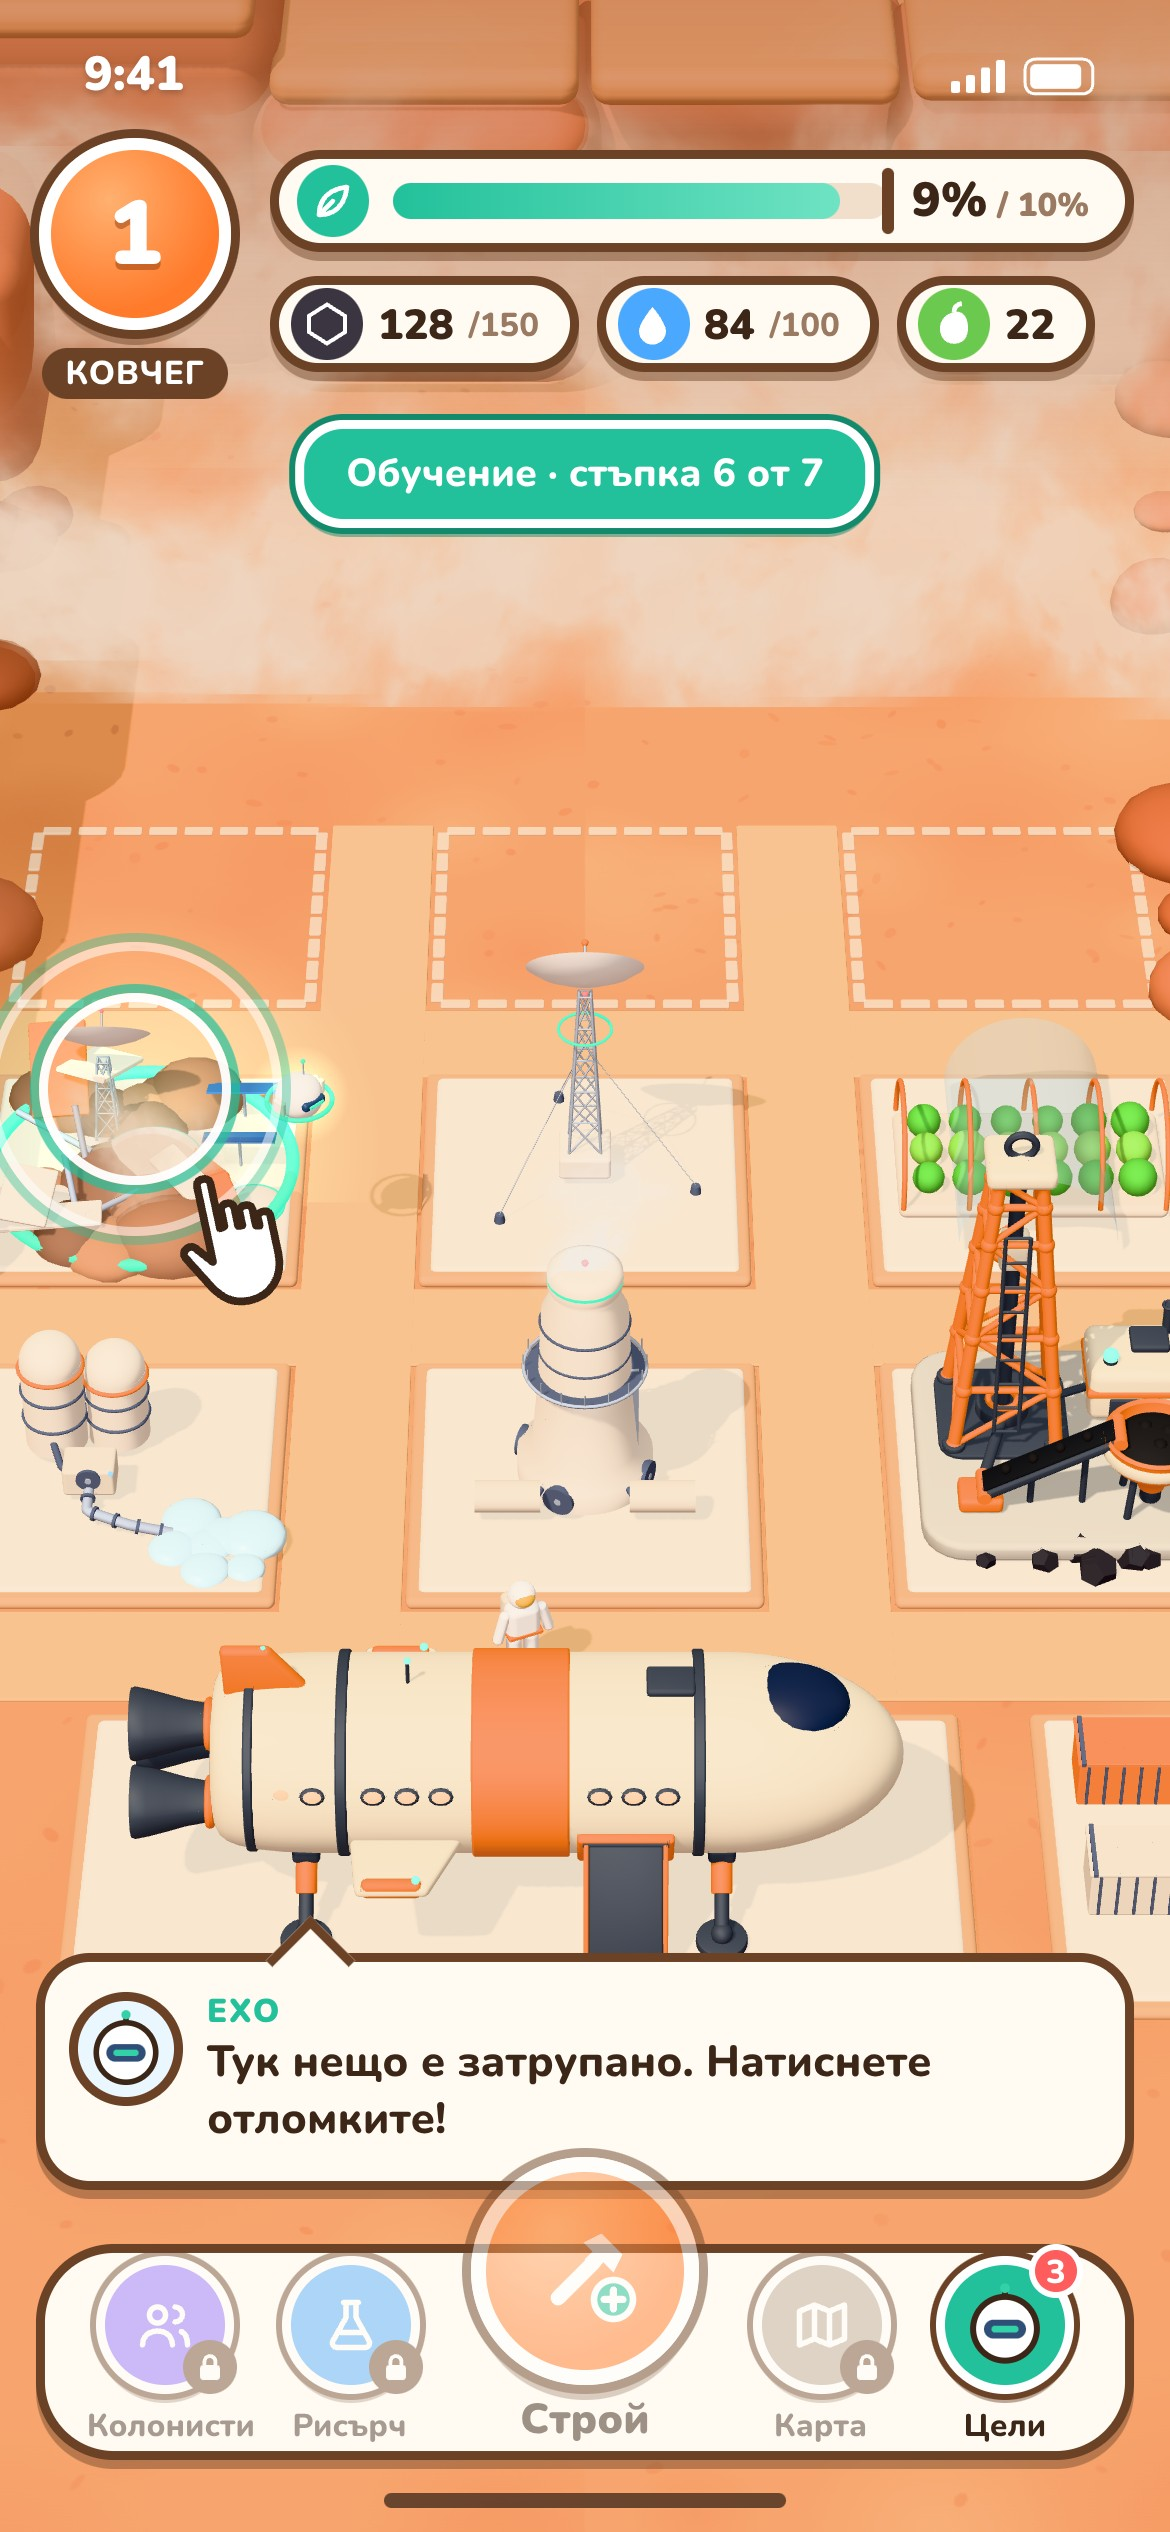
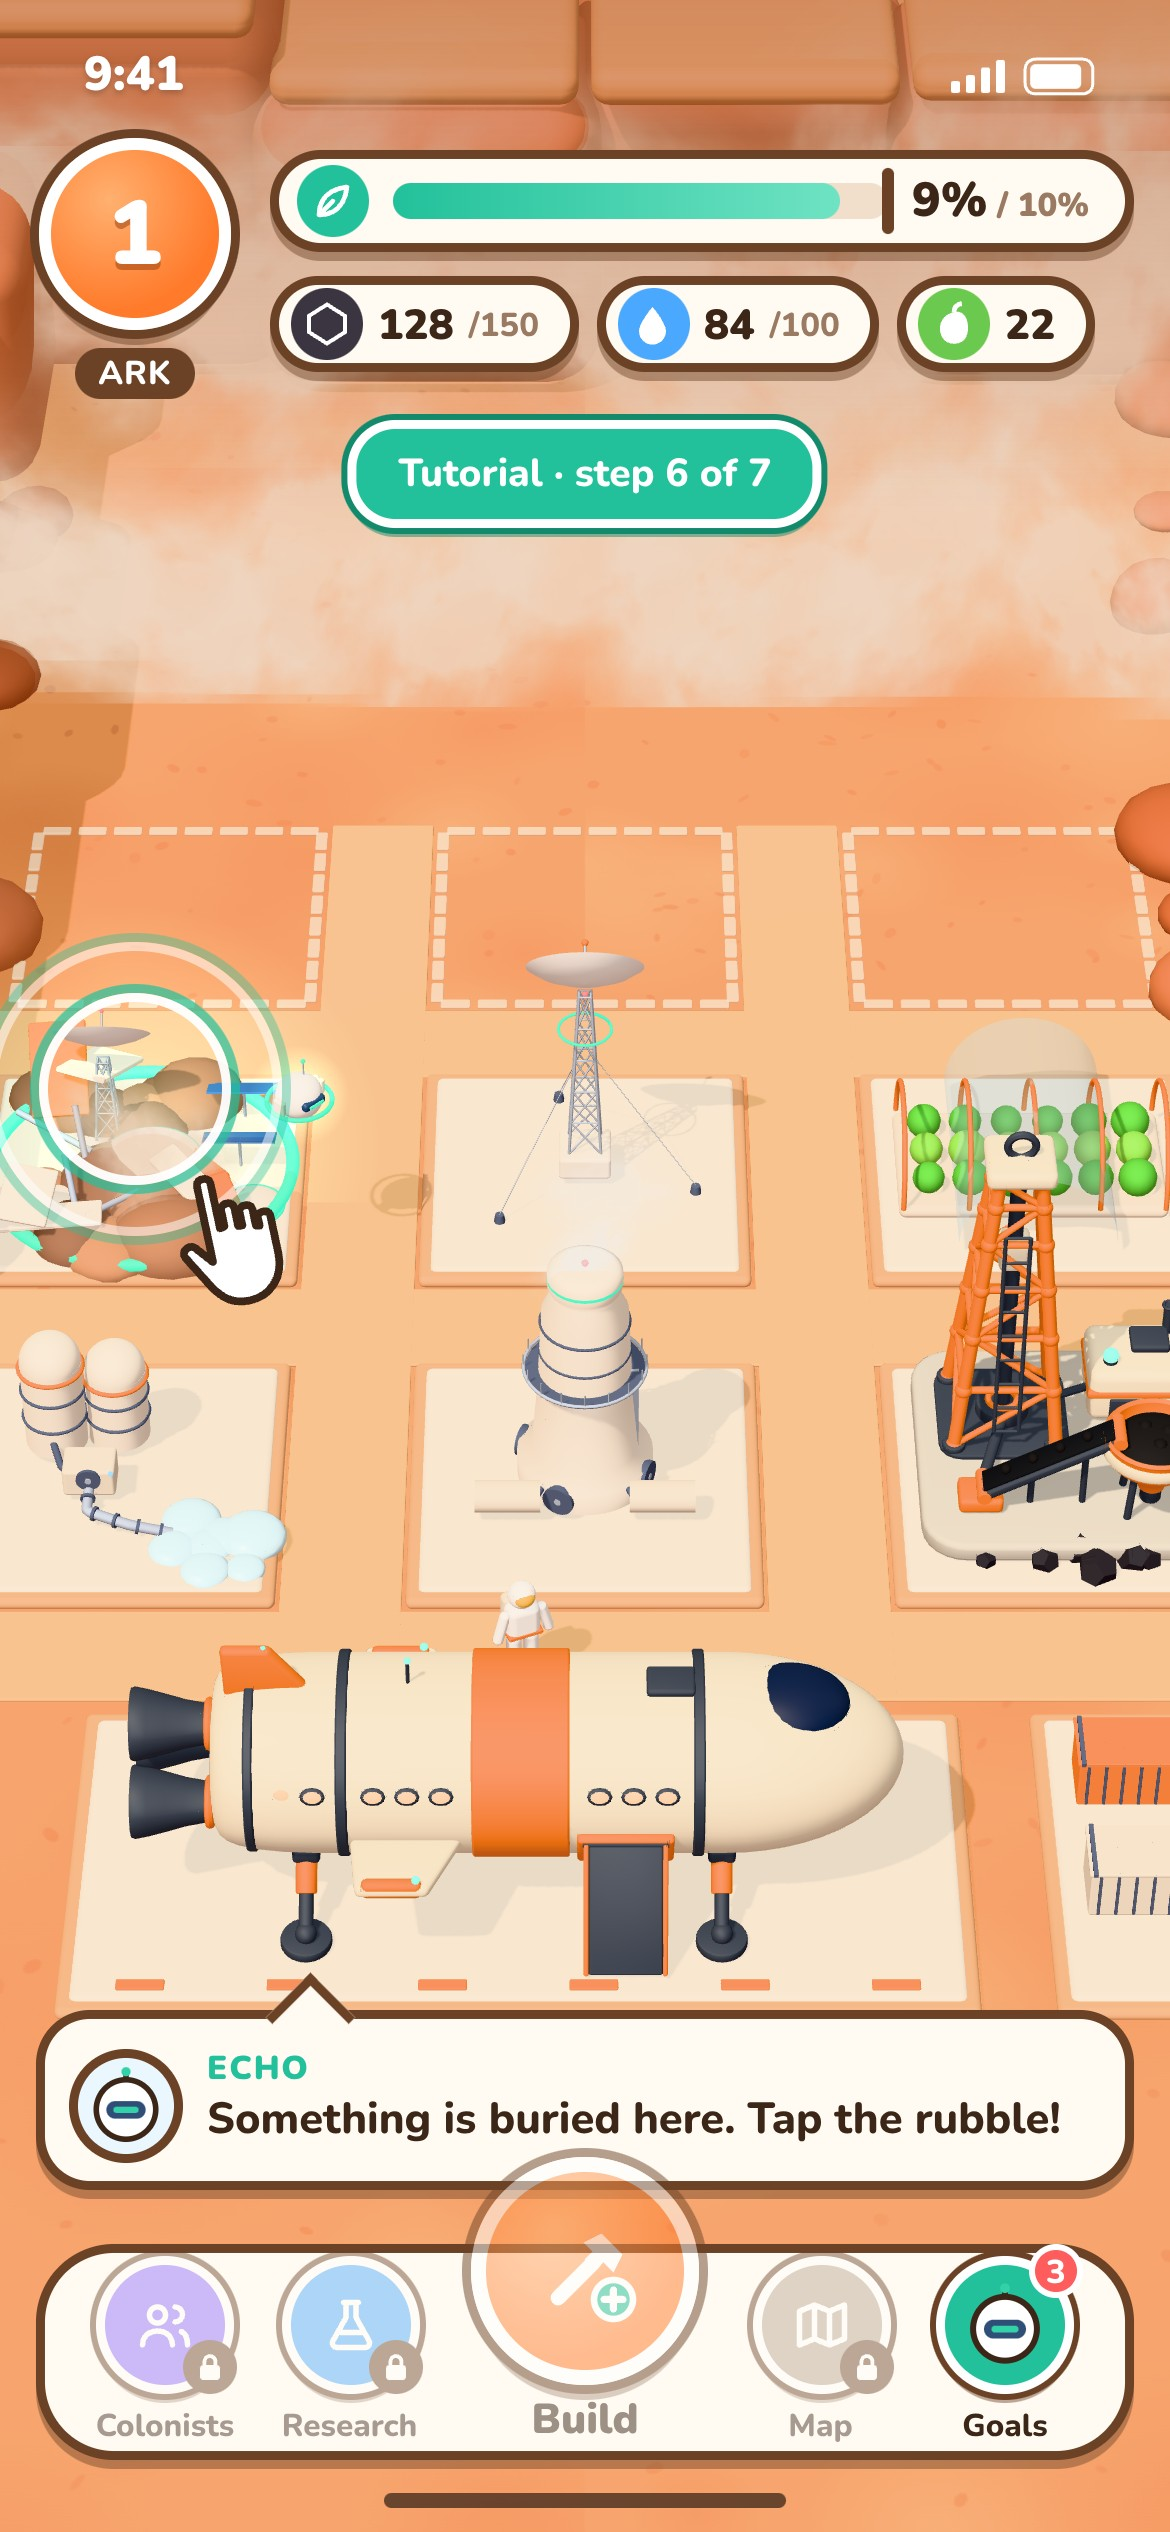
Новата визия с текстове на английски
Жоро: текстовете в самата игра са на английски. Преведени са всички
надписи в mockup/cartoon.html, кадрите са направени наново, решението е
в бележките и в CLAUDE.md.

Claude-Session: https://claude.ai/code/session_01HQgMkiyb5bvwSnLxV2QWWo

diff --git a/mockup/cartoon.html b/mockup/cartoon.html
@@ -1,5 +1,5 @@
 <!doctype html>
-<html lang="bg"><head><meta charset="utf-8"><meta name="viewport" content="width=390">
+<html lang="en"><head><meta charset="utf-8"><meta name="viewport" content="width=390">
 <title>Zerks-X6 cartoon mockup</title>
 <script type="importmap">{ "imports": { "three": "./node_modules/three/build/three.module.js", "three/addons/": "./node_modules/three/examples/jsm/" } }</script>
 <style>
@@ -90,15 +90,15 @@ const ICON = {
 };
 const pill = (bg, ico, val, small = '') => `<div class="pill card"><span class="ic" style="background:${bg}">${ico}</span>${val}${small ? `<small>${small}</small>` : ''}</div>`;
 function bubble(a, text) {
-  // ЕХО speaks from the bottom, above the dock; the tail points up at the robot on the map
-  return `<div class="bubble card" style="--tx:${Math.min(Math.max(a.x - 21, 30), 330).toFixed(1)}px"><div class="who">${ICON.echo}</div><div class="nm">ЕХО</div>${text}</div>`;
+  // ECHO speaks from the bottom, above the dock; the tail points up at the robot on the map
+  return `<div class="bubble card" style="--tx:${Math.min(Math.max(a.x - 21, 30), 330).toFixed(1)}px"><div class="who">${ICON.echo}</div><div class="nm">ECHO</div>${text}</div>`;
 }
 const badge = (a, inner, tag = '', cls = '') => `<div class="badge" style="left:${a.x.toFixed(1)}px;top:${a.y.toFixed(1)}px"><div class="b ${cls}">${inner}</div>${tag ? `<div class="tag">${tag}</div>` : ''}<div class="stem"></div></div>`;
 function hud() {
   const a = window.__anchors, l3 = window.__state.l3;
   let h = '<div class="shade"></div>';
   h += `<div class="status"><span>9:41</span><span class="r"><svg width="18" height="11" viewBox="0 0 18 11" fill="#fff"><rect x="0" y="7" width="3" height="4" rx=".8"/><rect x="5" y="5" width="3" height="6" rx=".8"/><rect x="10" y="2.5" width="3" height="8.5" rx=".8"/><rect x="15" y="0" width="3" height="11" rx=".8"/></svg><svg width="27" height="13" viewBox="0 0 27 13"><rect x=".7" y=".7" width="22.6" height="11.6" rx="3.4" fill="none" stroke="#fff"/><rect x="2.4" y="2.4" width="17" height="8.2" rx="1.8" fill="#fff"/></svg></span></div>`;
-  h += `<div class="ark"><div class="c">${l3 ? 3 : 1}</div><span class="t">КОВЧЕГ</span></div>`;
+  h += `<div class="ark"><div class="c">${l3 ? 3 : 1}</div><span class="t">ARK</span></div>`;
   const atm = l3 ? [13, 16] : [9, 10];
   h += `<div class="atm card"><span class="ic">${ICON.leaf}</span><div class="bar"><i style="width:${atm[0] / atm[1] * 100}%"></i><b style="right:-2px"></b></div><span class="v">${atm[0]}%<small> / ${atm[1]}%</small></span></div>`;
   h += `<div class="res">` + (l3
@@ -106,26 +106,26 @@ function hud() {
     : pill('#3a3540', ICON.carbon, 128, '/150') + pill('#4aa8ff', ICON.water, 84, '/100') + pill('#6cc94f', ICON.food, 22)) + `</div>`;
   if (l3) h += `<div class="crew">${pill('#8f6cff', ICON.person('#fff', 16), '4', '/4')}</div>`;
   if (!l3) {
-    h += `<div class="tut">Обучение · стъпка 6 от 7</div>`;
+    h += `<div class="tut">Tutorial · step 6 of 7</div>`;
     h += `<div class="pt" style="left:${a.rubble.x}px;top:${a.rubble.y}px"><div class="ring" style="width:64px;height:64px"></div><div class="ring" style="width:98px;height:98px;opacity:.55"></div></div>`;
     h += `<div class="pt" style="left:${a.rubble.x + 22}px;top:${a.rubble.y + 30}px;transform:translate(-30%,-10%) rotate(-12deg)">${ICON.hand}</div>`;
-    h += bubble(a.echo, 'Тук нещо е затрупано. Натиснете отломките!');
+    h += bubble(a.echo, 'Something is buried here. Tap the rubble!');
   } else {
     for (const k of ['w-drill', 'w-pump', 'w-veg']) h += badge(a[k], `${ICON.person()}<span class="ok">${ICON.check}</span>`);
     h += badge(a['w-quarry'], ICON.plus, '', 'empty');
-    h += badge(a['w-proc'], ICON.plus, 'свободно', 'empty');
-    h += badge(a.cook, ICON.chef, 'готвач');
-    h += badge(a.dome, ICON.bed, '4/4 легла');
-    h += bubble(a.echo, 'Всяка сграда може да вземе един човек. Натиснете празното място!');
+    h += badge(a['w-proc'], ICON.plus, 'free slot', 'empty');
+    h += badge(a.cook, ICON.chef, 'cook');
+    h += badge(a.dome, ICON.bed, '4/4 beds');
+    h += bubble(a.echo, 'Each building can take one worker. Tap the empty slot!');
     h += `<div class="pt" style="left:${a['w-proc'].x + 18}px;top:${a['w-proc'].y - 4}px;transform:translate(-30%,-10%) rotate(-12deg)">${ICON.hand}</div>`;
   }
   const off = l3 ? '' : 'off', lock = l3 ? '' : `<span class="lock">${ICON.lock}</span>`;
   h += `<div class="dock card">
-    <div class="db ${off}"><div class="c" style="background:#8f6cff">${ICON.people}</div><div class="l">Колонисти</div>${lock}${l3 ? '<span class="dot">!</span>' : ''}</div>
-    <div class="db ${off}"><div class="c" style="background:#4aa8ff">${ICON.flask}</div><div class="l">Рисърч</div>${lock}</div>
-    <div class="build ${off}"><div class="c">${ICON.hammer}</div><div class="l">Строй</div></div>
-    <div class="db off"><div class="c" style="background:#b9a38e">${ICON.map}</div><div class="l">Карта</div><span class="lock">${ICON.lock}</span></div>
-    <div class="db"><div class="c" style="background:#22c19b">${ICON.echo.replace('width="28" height="28"', 'width="30" height="30"')}</div><div class="l">Цели</div><span class="dot">3</span></div>
+    <div class="db ${off}"><div class="c" style="background:#8f6cff">${ICON.people}</div><div class="l">Colonists</div>${lock}${l3 ? '<span class="dot">!</span>' : ''}</div>
+    <div class="db ${off}"><div class="c" style="background:#4aa8ff">${ICON.flask}</div><div class="l">Research</div>${lock}</div>
+    <div class="build ${off}"><div class="c">${ICON.hammer}</div><div class="l">Build</div></div>
+    <div class="db off"><div class="c" style="background:#b9a38e">${ICON.map}</div><div class="l">Map</div><span class="lock">${ICON.lock}</span></div>
+    <div class="db"><div class="c" style="background:#22c19b">${ICON.echo.replace('width="28" height="28"', 'width="30" height="30"')}</div><div class="l">Goals</div><span class="dot">3</span></div>
   </div><div class="home"></div>`;
   document.getElementById('hud').innerHTML = h;
   document.fonts.ready.then(() => { window.__ready = true; });

diff --git a/docs/notes.md b/docs/notes.md
@@ -69,7 +69,7 @@
 | --- | --- | --- |
 | Име на играта | Още не знаем; Zerks-X6 остава работно име | Отворен |
 | С какво правим приложението | Приложение за iOS и Android е решено. С какво: предложение Unity или three.js в приложение (Capacitor), за да ползваме опита от Starhop | Отворен |
-| Език на играта | Предложение: английски; досега беше заради CrazyGames | Отворен |
+| Език на играта | Английски: текстовете в самата игра са на английски (Жоро, 03.11.2026); досега беше предложение | Решен |
 | Картата | Старото предложение отпадна. В концепцията (предложение): каньон, който се отключва нагоре по зони; заключените зони са под прах | Отворен |
 | Жанр и дължина | Idle игра за оцеляване с дълъг път на прогреса: строиш, подобряваш и колонията работи сама, и докато те няма. Историята остава нашата (решено на 01.11.2026) | Решен |
 | Екран, камера и управление | Вертикален екран (портрет). Камерата е само отгоре от първата секунда; няма джойстик и героят не се управлява. Всичко става с натискане (решено на 01.11.2026) | Решен |
@@ -112,6 +112,7 @@
 
 | Дата | Промяна | Статус |
 | --- | --- | --- |
+| 03.11.2026 | Жоро: текстовете в играта са на английски. В новата визия (mockup/cartoon.html) всички надписи са преведени: ARK, ECHO, Build, Colonists, Research, Map, Goals, репликите на ECHO и значките; кадрите cartoon-01 и cartoon-02 са направени наново | Готово |
 | 03.11.2026 | Жоро: нова визия, по-приятелска и анимационна, със същите модели. Нов макет mockup/cartoon.html (src/cartoon.js): плоски ярки цветове, мека светлина, нов каньон и нов интерфейс; Ковчегът и сондата от CellCog, другите сгради от кода с анимационни цветове. Кадри за ниво 1 (обучение, отломките) и ниво 3 (купол, кухня, работници) в mockup/screens | Готово |
 | 02.11.2026 | Жоро уточни строежа: бутонът „Строй“ отваря менюто, всяка сграда има определено място на картата, ЕХО води дотам. Обновени документът „Zerks-X6: ход на играта по концепцията“ (схемата, таблиците, отворените въпроси) и docs/game-flow-concept.md. В макета: състояния #early-build (менюто) и #early-place (светещото място с ЕХО), кадри 06 и 07; фабрикаторът в парцела му е заменен с рисърч станция и кадри 01–03 са направени наново | Готово |
 | 02.11.2026 | Жоро: фабрикаторът отпада; строи се с тап върху парцел и меню за строеж (уточнено в реда по-горе). Нов документ „Zerks-X6: ход на играта по концепцията“ (https://claude.ai/artifact/JjShfraRTRq3CH4FX62HVv) с нещата и действията от концепцията, две схеми и кадър на менюто за строеж; копие в docs/game-flow-concept.md. В макета ново състояние #early-build, кадър mockup/screens/06-stroezh-menu.jpg. Стъпка 1.3 „Фабрикаторът“ в „Zerks-X6: ход на играта“ и концепцията още не са обновени | Готово |

diff --git a/mockup/README.md b/mockup/README.md
@@ -13,7 +13,7 @@
 | `05-atmosfera-90-otblizo.jpg` | Същото, приближено |
 | `06-stroezh-menu.jpg` | Ниво 10: натиснат бутонът „Строй“, отворено е менюто за строеж; фабрикатор няма (решено на 02.11.2026) |
 | `07-izbor-na-miasto.jpg` | Избран е Жилищен модул: мястото му свети с прозрачната сграда, ЕХО го посочва, долу „Строй тук“ |
-| `cartoon-01-nivo-1.jpg` | Новата приятелска визия (cartoon.html): ниво 1, обучение; ЕХО показва затрупаната рисърч сграда |
+| `cartoon-01-nivo-1.jpg` | Новата приятелска визия (cartoon.html), с текстове на английски: ниво 1, обучение; ECHO показва затрупаната рисърч сграда |
 | `cartoon-02-nivo-3.jpg` | Новата визия: ниво 3, куполът с 4 легла, общата кухня с готвач, работниците и празно място при процесора |
 
 ## Какво е решено в макета

diff --git a/CLAUDE.md b/CLAUDE.md
@@ -4,7 +4,7 @@
 
 Работят двама души, Жоро (собственикът) и колега, всеки от свой чат. Чатовете се синхронизират само през това репо. Ако не е ясно кой от двамата пише, питай веднъж в началото на чата.
 
-Отговаряй на български. Езикът на текста в самата игра още не е решен (предложение: английски).
+Отговаряй на български. Текстът в самата игра е на английски (решено на 03.11.2026).
 
 ## Файлове и къде се публикуват
 
